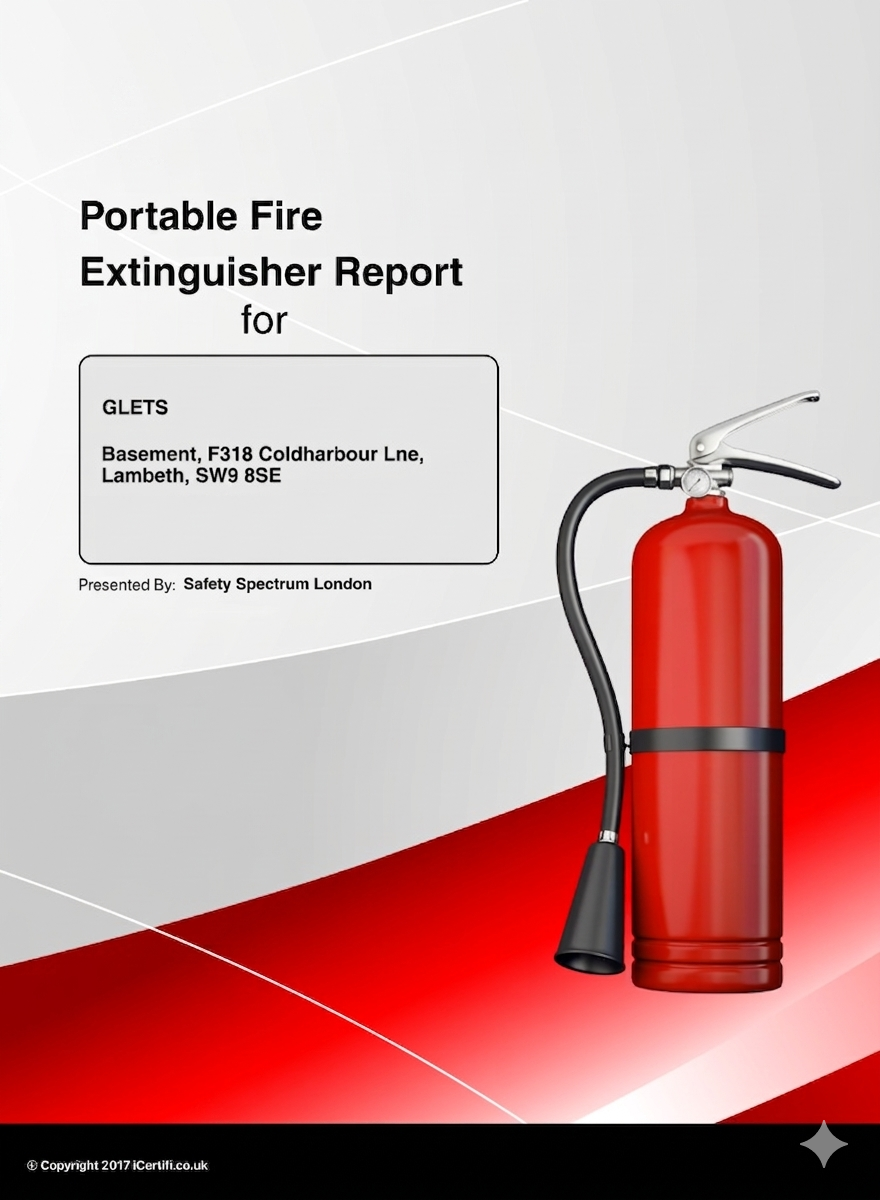
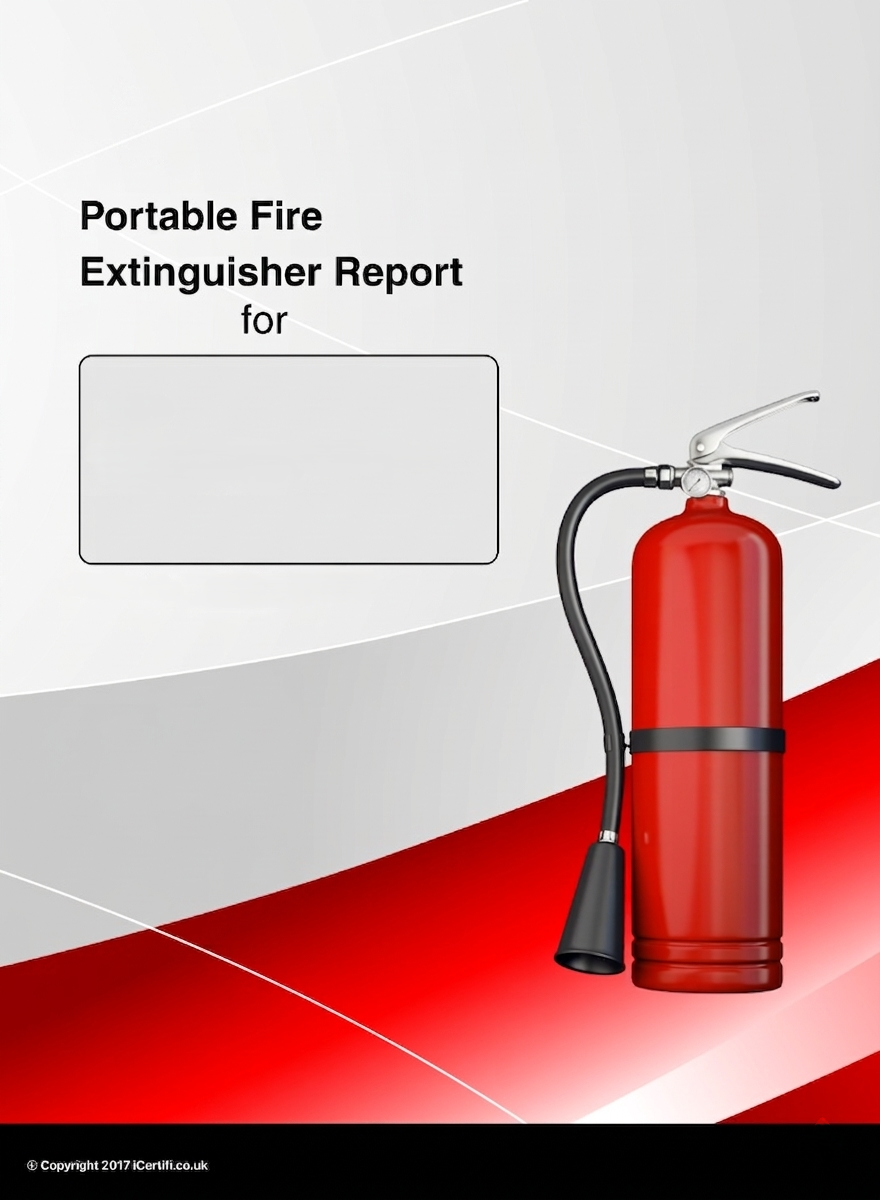
FET Page Completed

Changed region(s): [[0.092, 0.3083, 0.4909, 0.4008], [0.092, 0.4625, 0.4295, 0.4933], [0.9205, 0.925, 0.9511, 0.9867]]

diff --git a/frontend/public/src/templates/safety-spectrum-london-fet.html b/frontend/public/src/templates/safety-spectrum-london-fet.html
@@ -14,6 +14,10 @@
 		<main class="document" aria-label="Portable Fire Extinguisher Report">
 			<section class="page cover-page">
 				<img class="cover-page__image" src="/src/assets/page-1.png" alt="Portable Fire Extinguisher Report cover page" />
+				<div class="cover-page__premises" aria-label="Premises details">
+					<div class="cover-page__premises-name" id="fet-cover-premises-name">GLETS</div>
+					<div class="cover-page__premises-address" id="fet-cover-premises-address">Basement, F318 Coldharbour Lne, Lambeth, SW9 8SE</div>
+				</div>
 				<div class="cover-brand">
 					<div class="cover-brand__logo-shell">
 						<img class="cover-brand__logo static-logo-overlay" src="/src/assets/logo.png" alt="Safety Spectrum London logo" />
@@ -85,7 +89,9 @@
 							</div>
 							<div class="signature-grid__item">
 								<div class="signature-grid__label">Signature</div>
-								<div class="signature-grid__value signature-grid__value--script" id="fet-signature"></div>
+								<div class="signature-grid__value signature-grid__value--script" id="fet-signature-frame">
+									<img id="fet-signature" alt="Contractor signature" />
+								</div>
 							</div>
 							<div class="signature-grid__item">
 								<div class="signature-grid__label">Position</div>
@@ -177,6 +183,19 @@
 				el.innerHTML = String(value)
 			}
 
+			function setImageSrc(id, value) {
+				const el = document.getElementById(id)
+				if (!(el instanceof HTMLImageElement)) return
+				if (value === undefined || value === null || value === '') {
+					el.removeAttribute('src')
+					el.style.display = 'none'
+					return
+				}
+				el.src = String(value)
+				el.alt = 'Contractor signature'
+				el.style.display = 'block'
+			}
+
 			function renderRows(rows) {
 				const body = document.getElementById('fet-ext-body')
 				if (!body || !Array.isArray(rows) || !rows.length) return
@@ -241,13 +260,15 @@
 				setText('fet-reference', data.reference)
 				setText('fet-premises-name', data.premisesName)
 				setText('fet-premises-address', data.premisesAddress)
+				setText('fet-cover-premises-name', data.premisesName)
+				setText('fet-cover-premises-address', data.premisesAddress)
 				setText('fet-comments', data.comments)
 				setText('fet-trading-title', data.tradingTitle)
 				const brandTitle = document.querySelector('.report-head__title > div:first-child')
 				if (brandTitle) brandTitle.textContent = data.tradingTitle || brandTitle.textContent
 				setHtml('fet-contractor-address', String(data.contractorAddress || '').replace(/\n/g, '<br />'))
 				setText('fet-contractor-name', data.contractorName)
-				setText('fet-signature', data.signature)
+				setImageSrc('fet-signature', data.signature)
 				setText('fet-contractor-position', data.contractorPosition)
 				setText('fet-contractor-date', data.contractorDate)
 				renderRows(data.rows)

diff --git a/frontend/src/templates/safety-spectrum-london-fet.html b/frontend/src/templates/safety-spectrum-london-fet.html
@@ -14,6 +14,10 @@
 		<main class="document" aria-label="Portable Fire Extinguisher Report">
 			<section class="page cover-page">
 				<img class="cover-page__image" src="/src/assets/page-1.png" alt="Portable Fire Extinguisher Report cover page" />
+				<div class="cover-page__premises" aria-label="Premises details">
+					<div class="cover-page__premises-name" id="fet-cover-premises-name">GLETS</div>
+					<div class="cover-page__premises-address" id="fet-cover-premises-address">Basement, F318 Coldharbour Lne, Lambeth, SW9 8SE</div>
+				</div>
 				<div class="cover-brand">
 					<div class="cover-brand__logo-shell">
 						<img class="cover-brand__logo static-logo-overlay" src="/src/assets/logo.png" alt="Safety Spectrum London logo" />
@@ -85,7 +89,9 @@
 							</div>
 							<div class="signature-grid__item">
 								<div class="signature-grid__label">Signature</div>
-								<div class="signature-grid__value signature-grid__value--script" id="fet-signature"></div>
+								<div class="signature-grid__value signature-grid__value--script" id="fet-signature-frame">
+									<img id="fet-signature" alt="Contractor signature" />
+								</div>
 							</div>
 							<div class="signature-grid__item">
 								<div class="signature-grid__label">Position</div>
@@ -177,6 +183,19 @@
 				el.innerHTML = String(value)
 			}
 
+			function setImageSrc(id, value) {
+				const el = document.getElementById(id)
+				if (!(el instanceof HTMLImageElement)) return
+				if (value === undefined || value === null || value === '') {
+					el.removeAttribute('src')
+					el.style.display = 'none'
+					return
+				}
+				el.src = String(value)
+				el.alt = 'Contractor signature'
+				el.style.display = 'block'
+			}
+
 			function renderRows(rows) {
 				const body = document.getElementById('fet-ext-body')
 				if (!body || !Array.isArray(rows) || !rows.length) return
@@ -241,13 +260,15 @@
 				setText('fet-reference', data.reference)
 				setText('fet-premises-name', data.premisesName)
 				setText('fet-premises-address', data.premisesAddress)
+				setText('fet-cover-premises-name', data.premisesName)
+				setText('fet-cover-premises-address', data.premisesAddress)
 				setText('fet-comments', data.comments)
 				setText('fet-trading-title', data.tradingTitle)
 				const brandTitle = document.querySelector('.report-head__title > div:first-child')
 				if (brandTitle) brandTitle.textContent = data.tradingTitle || brandTitle.textContent
 				setHtml('fet-contractor-address', String(data.contractorAddress || '').replace(/\n/g, '<br />'))
 				setText('fet-contractor-name', data.contractorName)
-				setText('fet-signature', data.signature)
+				setImageSrc('fet-signature', data.signature)
 				setText('fet-contractor-position', data.contractorPosition)
 				setText('fet-contractor-date', data.contractorDate)
 				renderRows(data.rows)

diff --git a/frontend/public/src/templates/safety-spectrum-london-fet.css b/frontend/public/src/templates/safety-spectrum-london-fet.css
@@ -78,6 +78,35 @@ body {
 	object-fit: cover;
 }
 
+.cover-page__premises {
+	position: absolute;
+	left: 32%;
+	top: 38%;
+	transform: translate(-50%, -50%);
+	width: min(126mm, calc(100% - 24mm));
+	padding: 6mm 8mm;
+	text-align: center;
+	z-index: 15;
+	border-radius: 2mm;
+}
+
+.cover-page__premises-name {
+	font-size: 10mm;
+	font-weight: 700;
+	line-height: 1.06;
+	letter-spacing: 0.2mm;
+	text-transform: uppercase;
+	word-break: break-word;
+}
+
+.cover-page__premises-address {
+	margin-top: 2.5mm;
+	font-size: 5.5mm;
+	font-weight: 700;
+	line-height: 1.18;
+	word-break: break-word;
+}
+
 /* ─── Cover-page brand (logo + name) ───────────────────────────────────────
    page-1.png no longer has a baked logo. Render a real brand block at the
    original top-left location, with a fixed logo box so any issuer logo fits.
@@ -444,10 +473,27 @@ html.issuer-export-brand .report-head__brand {
 }
 
 .signature-grid__value--script {
+	display: flex;
+	align-items: center;
+	justify-content: center;
+	overflow: hidden;
+	width: 100%;
+	height: 8.5mm;
+	min-height: 8.5mm;
+	padding: 1mm 2mm;
 	text-align: center;
 	font-family: inherit;
 	font-size: 4.1mm;
 	color: inherit;
+}
+
+
+.signature-grid__value--script img {
+	display: block;
+	width: 100%;
+	height: 100%;
+	object-fit: contain;
+	object-position: center;
 }
 
 .important-note {

diff --git a/frontend/src/templates/safety-spectrum-london-fet.css b/frontend/src/templates/safety-spectrum-london-fet.css
@@ -78,6 +78,35 @@ body {
 	object-fit: cover;
 }
 
+.cover-page__premises {
+	position: absolute;
+	left: 32%;
+	top: 38%;
+	transform: translate(-50%, -50%);
+	width: min(126mm, calc(100% - 24mm));
+	padding: 6mm 8mm;
+	text-align: center;
+	z-index: 15;
+	border-radius: 2mm;
+}
+
+.cover-page__premises-name {
+	font-size: 10mm;
+	font-weight: 700;
+	line-height: 1.06;
+	letter-spacing: 0.2mm;
+	text-transform: uppercase;
+	word-break: break-word;
+}
+
+.cover-page__premises-address {
+	margin-top: 2.5mm;
+	font-size: 5.5mm;
+	font-weight: 700;
+	line-height: 1.18;
+	word-break: break-word;
+}
+
 /* ─── Cover-page brand (logo + name) ───────────────────────────────────────
    page-1.png no longer has a baked logo. Render a real brand block at the
    original top-left location, with a fixed logo box so any issuer logo fits.
@@ -444,10 +473,27 @@ html.issuer-export-brand .report-head__brand {
 }
 
 .signature-grid__value--script {
+	display: flex;
+	align-items: center;
+	justify-content: center;
+	overflow: hidden;
+	width: 100%;
+	height: 8.5mm;
+	min-height: 8.5mm;
+	padding: 1mm 2mm;
 	text-align: center;
 	font-family: inherit;
 	font-size: 4.1mm;
 	color: inherit;
+}
+
+
+.signature-grid__value--script img {
+	display: block;
+	width: 100%;
+	height: 100%;
+	object-fit: contain;
+	object-position: center;
 }
 
 .important-note {

diff --git a/frontend/src/App.tsx b/frontend/src/App.tsx
@@ -1741,7 +1741,13 @@ function App() {
                 <textarea rows={3} value={fetForm.contractorAddress} onChange={(e) => updateFetField('contractorAddress', e.target.value)} />
               </label>
               <label>Contractor Name<input value={fetForm.contractorName} onChange={(e) => updateFetField('contractorName', e.target.value)} /></label>
-              <label>Signature<input value={fetForm.signature} onChange={(e) => updateFetField('signature', e.target.value)} /></label>
+              <FormImageUpload
+                wide
+                label="Signature image"
+                value={fetForm.signature}
+                onChange={(next) => updateFetField('signature', next)}
+                cropAspectRatio={3 / 1}
+              />
               <label>Position<input value={fetForm.contractorPosition} onChange={(e) => updateFetField('contractorPosition', e.target.value)} /></label>
               <label>Date<input type="date" value={fetForm.contractorDate} onChange={(e) => updateFetField('contractorDate', e.target.value)} /></label>
             </div>
